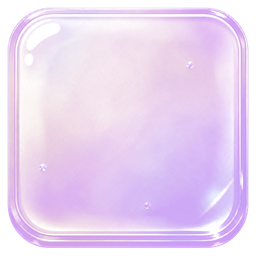
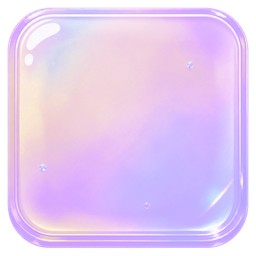
타일 팔레트를 컨셉보드 승인색으로 되돌리고 노랑 자리를 되찾음
앞 커밋은 색상환에서 기계적으로 뽑은 여섯 색을 썼는데 원색에 가까워
게임의 결이 아니었다. 컨셉보드 승인 팔레트가
tools/build-syrup-tile-assets.py 에 그대로 남아 있어 그 색을 다시 쓴다.
v4가 실패한 원인은 애초에 색 선택이 아니라 고정 블렌드 강도로 렌더링해
채도가 7.9%~82.3%로 흩어진 것이었으므로, 색은 그대로 두고 렌더링만 고치는
것이 맞다.

한 가지만 바로잡았다. lemon 은 원래 #FFDFA6 로 색상각 38도인데 peach 가
32도라 6도 차이였다. 여섯 색 중 셋이 주황 계열이 되고 노랑이 아예 없는
상태였다. lemon 을 55도로 옮겨 노랑 자리를 되찾았고 나머지 다섯은 손대지
않았다.

마스터가 자체 따뜻한 색조를 갖고 있어 목표보다 몇 도 낮게 렌더링되고
노랑이 가장 크게 끌린다. lemon 은 55도로 나오게 하려고 63도를 겨냥한다.
빌드가 목표와 렌더 결과를 함께 출력하므로 헥스가 아니라 그 표를 기준으로
맞춘다.

채도는 60%, 명도는 86%로 통일한다. 이 상한은 취향이 아니라 숫자가 정한다.
잉크 #425374 기준으로 채도 70%/명도 82%는 4.36:1, 채도 78%/명도 78%는
3.74:1 로 WCAG AA 를 통과하지 못한다. 60%/86% 에서 최저 5.00:1 이다.

결과: 채도 폭 74.3%p -> 5.8%p, 최소 색상각 간격 3도 -> 24도.

검증: npm test 71/71, npm run build, 4개 해상도 x 4개 스테이지에서 타일
겹침 0·가로 스크롤 없음·6개 톤 정상 로드·숫자 최소 28.9px.

Claude-Session: https://claude.ai/code/session_018PNvCciUPJyfMsFQNjkdTe

diff --git a/css/styles.css b/css/styles.css
@@ -1688,7 +1688,7 @@ img {
 .tile.tone-2 { background-image: url("../assets/ui/tiles-syrup-v5/tile-peach.webp"); }
 .tile.tone-3 { background-image: url("../assets/ui/tiles-syrup-v5/tile-lemon.webp"); }
 .tile.tone-4 { background-image: url("../assets/ui/tiles-syrup-v5/tile-mint.webp"); }
-.tile.tone-5 { background-image: url("../assets/ui/tiles-syrup-v5/tile-sky.webp"); }
+.tile.tone-5 { background-image: url("../assets/ui/tiles-syrup-v5/tile-aqua.webp"); }
 .tile.tone-6 { background-image: url("../assets/ui/tiles-syrup-v5/tile-lilac.webp"); }
 
 /* A-1: 숫자 색을 잉크 한 색으로 통일.

diff --git a/js/preload.js b/js/preload.js
@@ -14,7 +14,7 @@ const PLAY_CRITICAL_ASSETS = Object.freeze([
   'assets/ui/tiles-syrup-v5/tile-peach.webp',
   'assets/ui/tiles-syrup-v5/tile-lemon.webp',
   'assets/ui/tiles-syrup-v5/tile-mint.webp',
-  'assets/ui/tiles-syrup-v5/tile-sky.webp',
+  'assets/ui/tiles-syrup-v5/tile-aqua.webp',
   'assets/ui/tiles-syrup-v5/tile-lilac.webp',
 ]);
 

diff --git a/tools/build-tiles-v5.py b/tools/build-tiles-v5.py
@@ -29,21 +29,51 @@ ROOT = Path(__file__).resolve().parents[1]
 SOURCE = ROOT / "assets/source/tile-syrup-v4-alpha.png"
 OUT = ROOT / "assets/ui/tiles-syrup-v5"
 
-# Evenly spread around the wheel. Names keep the v4 flavour so the CSS reads the
-# same, except v4's "aqua" — which measured 7.9% saturation and was really a
-# grey-violet — is replaced by an honest "sky".
-HUES = {
-    "blush": 350,
-    "peach": 30,
-    "lemon": 55,
-    "mint": 135,
-    "sky": 195,
-    "lilac": 272,
+# The approved concept-board palette, carried over from
+# tools/build-syrup-tile-assets.py. These are the colours the project already
+# chose and liked; v4's failure was never the palette, it was that a fixed blend
+# strength rendered them at 7.9%-82.3% saturation so half the board looked like
+# grime. Keeping the hues and fixing only the rendering is the whole change.
+#
+# One correction. Measured on the wheel the original set is not a rainbow:
+#
+#   blush #FF7BA8  340°     peach #FFB766   32°
+#   lemon #FFDFA6   38°  <- six degrees from peach, so it read as a second
+#   mint  #7FD6C2  166°     orange and the set had no yellow at all
+#   aqua  #8DB7FF  218°     lilac #C9B0FF  259°
+#
+# `lemon` moves to a true yellow and keeps its light, buttery character. The
+# other five are untouched.
+#
+# Targets are aimed, not final: the master carries a warm cast of its own, so a
+# target lands a few degrees below where it is aimed and yellows drift hardest.
+# `lemon` is aimed at 63° to render at 55°, which is where it finally separates
+# from peach. The build prints both numbers, so re-aim against that table rather
+# than against the hex.
+CONCEPT_PALETTE = {
+    "blush": (255, 123, 168),
+    "peach": (255, 183, 102),
+    "lemon": (232, 238, 114),
+    "mint": (127, 214, 194),
+    "aqua": (141, 183, 255),
+    "lilac": (201, 176, 255),
 }
 
 # Measured on the tile face (centre 40%), matching how the v4 set was audited.
-TARGET_SATURATION = 0.45
-TARGET_LIGHTNESS = 0.88
+#
+# Saturation is capped by the numerals, not by taste. The ink is #425374, and
+# the tile has to stay light enough underneath it to clear WCAG AA (4.5:1).
+# Measured at hue 52° (yellow, the worst case of the six):
+#
+#   saturation 60% / lightness 86%   ->  5.07:1   ok
+#   saturation 70% / lightness 82%   ->  4.36:1   fails AA
+#   saturation 78% / lightness 78%   ->  3.74:1   fails AA
+#
+# So the board cannot get its contrast from deeper tiles. It gets it from
+# css/ui-chrome.css instead, which pushes the painted chrome behind the board
+# back so the tiles are the only saturated thing on screen.
+TARGET_SATURATION = 0.60
+TARGET_LIGHTNESS = 0.86
 
 
 def normalized_master() -> Image.Image:
@@ -80,12 +110,16 @@ def face_pixels(image: Image.Image) -> list[tuple[int, int, int, int]]:
     return [pixel for pixel in face.getdata() if pixel[3] > 200]
 
 
-def measure(image: Image.Image) -> tuple[float, float]:
+def mean_rgb(image: Image.Image) -> tuple[float, float, float]:
     pixels = face_pixels(image)
     count = len(pixels)
-    red = sum(p[0] for p in pixels) / count
-    green = sum(p[1] for p in pixels) / count
-    blue = sum(p[2] for p in pixels) / count
+    return (sum(p[0] for p in pixels) / count,
+            sum(p[1] for p in pixels) / count,
+            sum(p[2] for p in pixels) / count)
+
+
+def measure(image: Image.Image) -> tuple[float, float]:
+    red, green, blue = mean_rgb(image)
     _, lightness, saturation = colorsys.rgb_to_hls(red / 255, green / 255, blue / 255)
     return saturation, lightness
 
@@ -126,8 +160,7 @@ def normalize(image: Image.Image) -> Image.Image:
 GRADE_STRENGTH = 0.85
 
 
-def grade(master: Image.Image, hue: int) -> Image.Image:
-    target_rgb = tuple(round(c * 255) for c in colorsys.hls_to_rgb(hue / 360, 0.72, 0.85))
+def grade(master: Image.Image, target_rgb: tuple[int, int, int]) -> Image.Image:
     return normalize(tint_preserving_iridescence(master, target_rgb, GRADE_STRENGTH))
 
 
@@ -135,14 +168,16 @@ def main() -> None:
     OUT.mkdir(parents=True, exist_ok=True)
     master = normalized_master()
 
-    print(f"{'tile':8} {'saturation':>11} {'lightness':>10} {'hue':>6}")
-    print("-" * 38)
-    for name, hue in HUES.items():
-        compact = grade(master, hue).resize((256, 256), Image.Resampling.LANCZOS)
+    print(f"{'tile':8} {'target':9} {'saturation':>11} {'lightness':>10} {'hue':>6}")
+    print("-" * 50)
+    for name, target in CONCEPT_PALETTE.items():
+        compact = grade(master, target).resize((256, 256), Image.Resampling.LANCZOS)
         compact.save(OUT / f"tile-{name}.png", optimize=True)
         compact.save(OUT / f"tile-{name}.webp", format="WEBP", lossless=True, method=6)
         saturation, lightness = measure(compact)
-        print(f"{name:8} {saturation * 100:10.1f}% {lightness * 100:9.1f}% {hue:5}°")
+        hue = colorsys.rgb_to_hls(*[c / 255 for c in mean_rgb(compact)])[0] * 360
+        print(f"{name:8} #{target[0]:02X}{target[1]:02X}{target[2]:02X}  "
+              f"{saturation * 100:10.1f}% {lightness * 100:9.1f}% {hue:5.0f}°")
 
 
 if __name__ == "__main__":

diff --git a/ASSET_USAGE.md b/ASSET_USAGE.md
@@ -25,12 +25,12 @@
 | `assets/ui/logo.webp` | `oing-toss-assets-v1/assets/ui/logo.webp` | 홈 로고 | 142–212px |
 | `assets/ui/button-settings.webp` | `oing-toss-assets-v1/assets/ui/button-settings.webp` | 홈 설정 | 39–44px |
 | `assets/ui/button-pause.webp` | `oing-toss-assets-v1/assets/ui/button-pause.webp` | 플레이 일시정지 | 43–48px |
-| `assets/ui/tiles-syrup-v5/tile-blush.webp` | `assets/source/tile-syrup-v4-alpha.png`을 `tools/build-tiles-v5.py`로 재계조 | 보드 타일 350° | 256×256 원본, 셀 약 44–59px |
-| `assets/ui/tiles-syrup-v5/tile-peach.webp` | `assets/source/tile-syrup-v4-alpha.png`을 `tools/build-tiles-v5.py`로 재계조 | 보드 타일 30° | 256×256 원본, 셀 약 44–59px |
-| `assets/ui/tiles-syrup-v5/tile-lemon.webp` | `assets/source/tile-syrup-v4-alpha.png`을 `tools/build-tiles-v5.py`로 재계조 | 보드 타일 55° | 256×256 원본, 셀 약 44–59px |
-| `assets/ui/tiles-syrup-v5/tile-mint.webp` | `assets/source/tile-syrup-v4-alpha.png`을 `tools/build-tiles-v5.py`로 재계조 | 보드 타일 135° | 256×256 원본, 셀 약 44–59px |
-| `assets/ui/tiles-syrup-v5/tile-sky.webp` | `assets/source/tile-syrup-v4-alpha.png`을 `tools/build-tiles-v5.py`로 재계조 | 보드 타일 195° | 256×256 원본, 셀 약 44–59px |
-| `assets/ui/tiles-syrup-v5/tile-lilac.webp` | `assets/source/tile-syrup-v4-alpha.png`을 `tools/build-tiles-v5.py`로 재계조 | 보드 타일 272° | 256×256 원본, 셀 약 44–59px |
+| `assets/ui/tiles-syrup-v5/tile-blush.webp` | 컨셉보드 승인색 `#FF7BA8`를 `tools/build-tiles-v5.py`로 마스터에 재계조 | 보드 타일 350° | 256×256 원본, 셀 약 44–59px |
+| `assets/ui/tiles-syrup-v5/tile-peach.webp` | 컨셉보드 승인색 `#FFB766`를 `tools/build-tiles-v5.py`로 마스터에 재계조 | 보드 타일 31° | 256×256 원본, 셀 약 44–59px |
+| `assets/ui/tiles-syrup-v5/tile-lemon.webp` | 컨셉보드 승인색 `#E8EE72`를 `tools/build-tiles-v5.py`로 마스터에 재계조 | 보드 타일 55° | 256×256 원본, 셀 약 44–59px |
+| `assets/ui/tiles-syrup-v5/tile-mint.webp` | 컨셉보드 승인색 `#7FD6C2`를 `tools/build-tiles-v5.py`로 마스터에 재계조 | 보드 타일 146° | 256×256 원본, 셀 약 44–59px |
+| `assets/ui/tiles-syrup-v5/tile-aqua.webp` | 컨셉보드 승인색 `#8DB7FF`를 `tools/build-tiles-v5.py`로 마스터에 재계조 | 보드 타일 222° | 256×256 원본, 셀 약 44–59px |
+| `assets/ui/tiles-syrup-v5/tile-lilac.webp` | 컨셉보드 승인색 `#C9B0FF`를 `tools/build-tiles-v5.py`로 마스터에 재계조 | 보드 타일 286° | 256×256 원본, 셀 약 44–59px |
 | `assets/icons/navigation/trophy.webp` | `oing-toss-assets-v1/assets/icons/trophy.webp` | 홈·결과 랭킹 | 27px |
 | `assets/icons/navigation/home.webp` | `oing-toss-assets-v1/assets/icons/home.webp` | 결과 홈으로 | 24px |
 | `assets/icons/hud/score.webp` | `oing-toss-assets-v1/assets/icons/coin.webp` | 점수 HUD | 22px |
@@ -64,7 +64,7 @@
 | `assets/ui/tile-disabled.webp` | 보드에 disabled 타일 상태가 아직 없다. |
 | `assets/ui/tile-{normal,selected,success,hint,empty}.webp` | 독립 시럽 타일 세트로 교체해 보존만 한다. |
 | `assets/ui/tiles-v3/` 전체 | 이전 밀키 글라스 후보 세트다. 현재 게임은 `tiles-syrup-v5` 6종을 사용한다. |
-| `assets/ui/tiles-syrup-v4/` 전체 | 채도가 7.9%~82.3%로 흩어져 절반은 색, 절반은 때처럼 보였고 blush·peach·lemon이 33° 안에 몰려 있었다. `tiles-syrup-v5`가 같은 마스터에서 채도 45%·명도 88%로 통일해 대체한다. 원본만 보존한다. |
+| `assets/ui/tiles-syrup-v4/` 전체 | 채도가 7.9%~82.3%로 흩어져 절반은 색, 절반은 때처럼 보였고 blush·peach·lemon이 33° 안에 몰려 있었다. `tiles-syrup-v5`가 같은 컨셉보드 색을 같은 마스터에 다시 입히되 채도 60%·명도 86%로 통일해 대체한다. 원본만 보존한다. |
 | `assets/ui/item-buttons-v1/` 전체 | 긴 가로형 셸이라 4개 아이템을 한 줄에 배치하면 보드 공간을 압박한다. 정사각 시럽 슬롯으로 교체해 원본만 보존한다. |
 | `assets/decor/cloud.webp` | 배경 자체에 구름이 있어 중복 장식을 피했다. |
 | `assets/decor/flower.webp` | 배경 하단 꽃밭과 중복되어 사용하지 않았다. |
